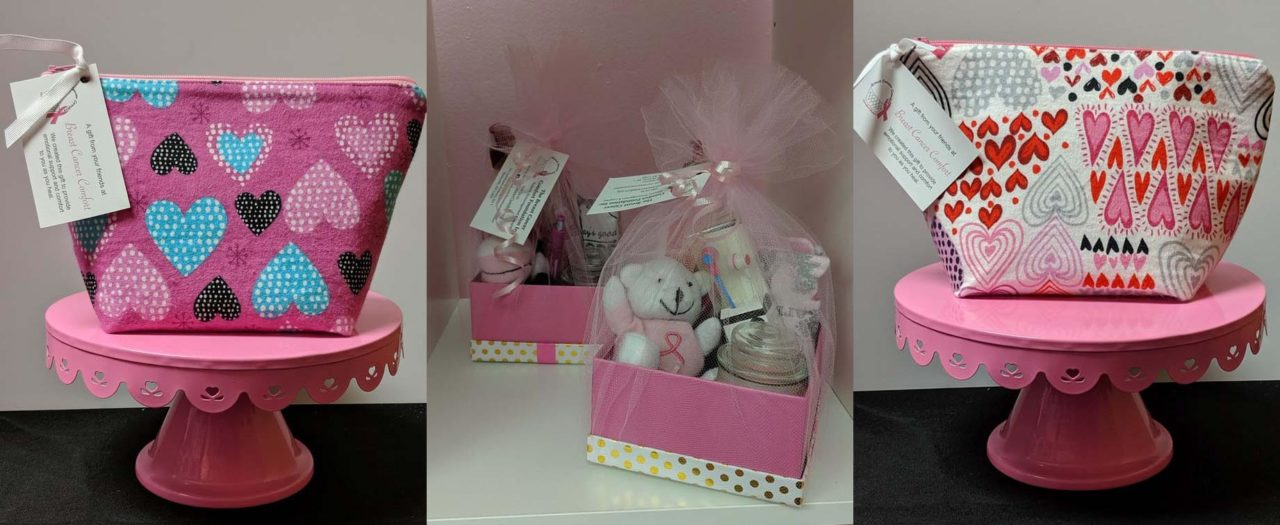
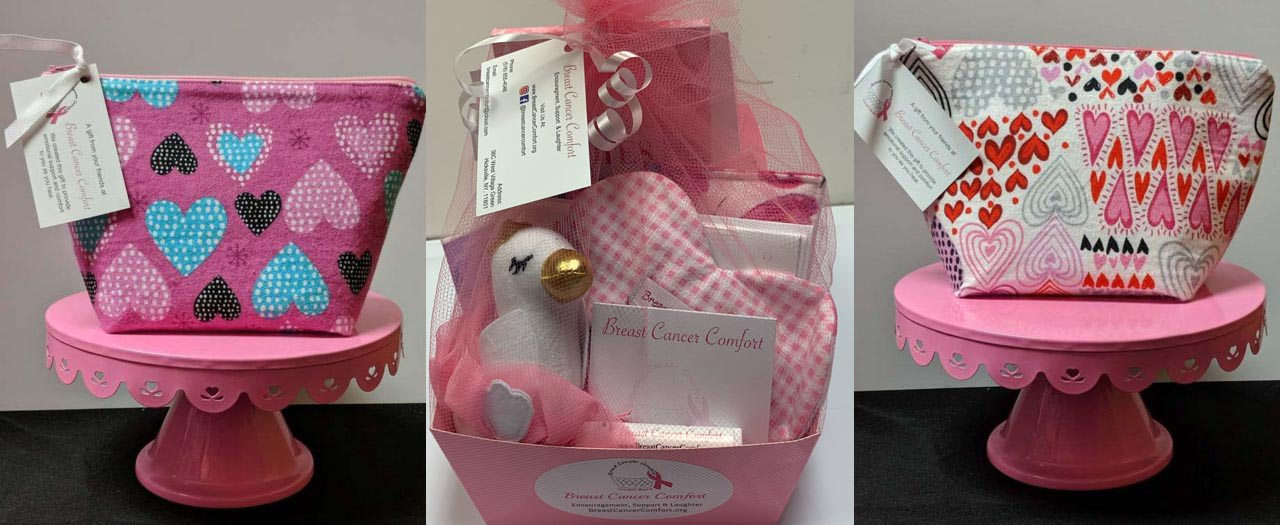
boobtique: changed middle pic in hero section. made img-container a flexbox and added 3 pics individually

Changed region(s): [[0.3125, 0.0, 0.6875, 1.0]]

diff --git a/pages/boobtique.js b/pages/boobtique.js
@@ -21,7 +21,10 @@ export default function Boobtique() {
 
       <main className={styles.main}>
           <div className='img-container'>
-            <img src='/boobtique/boobtique.jpg' alt='' />
+            {/* <img src='/boobtique/boobtique.jpg' alt='' /> */}
+            <img src='/gifts/chemo-comfort-bag-10.jpg' alt='' />
+            <img className='middle-pic' src='/boobtique/boobtique-4.jpg' alt='' />
+            <img src='/gifts/chemo-comfort-bag-11.jpg' alt='' />
           </div>
 
           <section className='pink-container gift-container'>
@@ -71,6 +74,19 @@ export default function Boobtique() {
 
       <style jsx>
         {`
+        .img-container {
+            display: flex;
+            justify-content: space-between;
+        }
+
+        .img-container img {
+          width: 33.3%;
+        }
+
+        .middle-pic {
+          // border-radius: 50%;
+        }
+
         .button-container {
             display: flex;
             justify-content: center;
